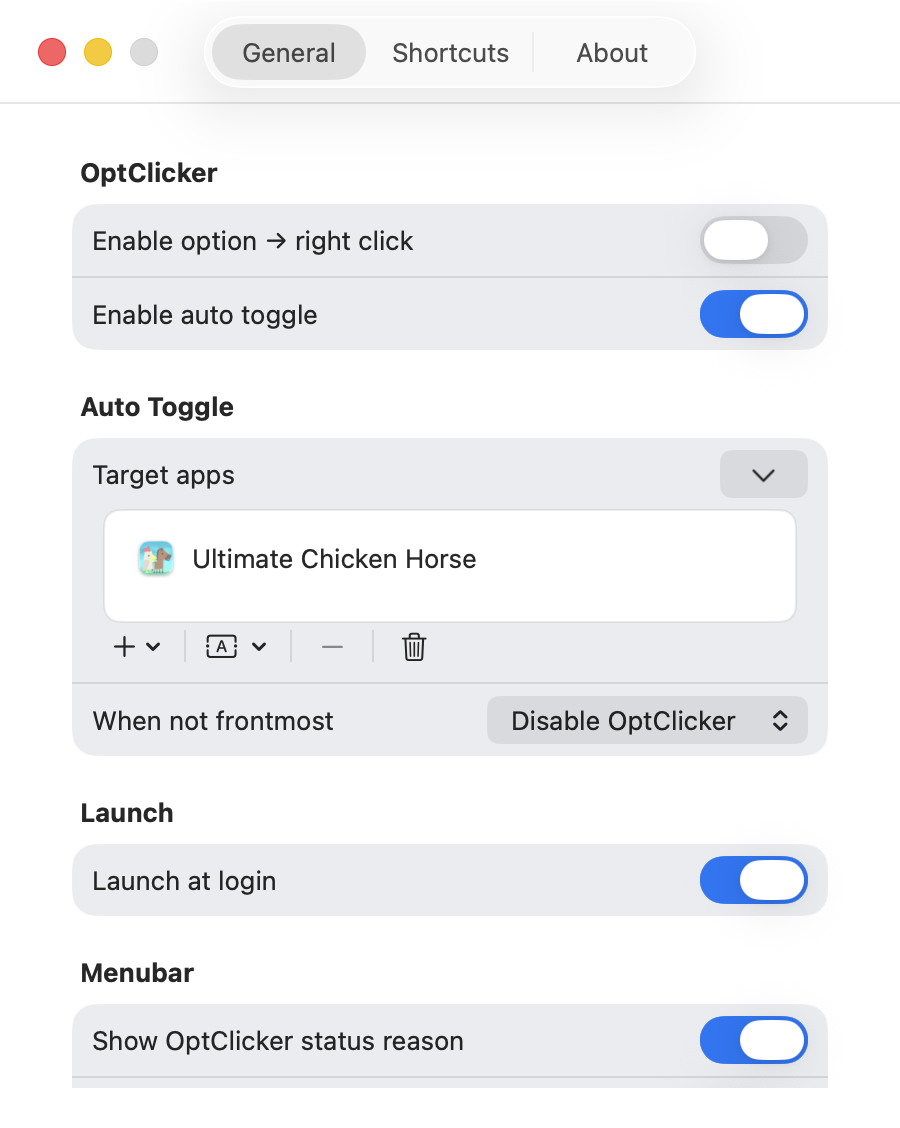
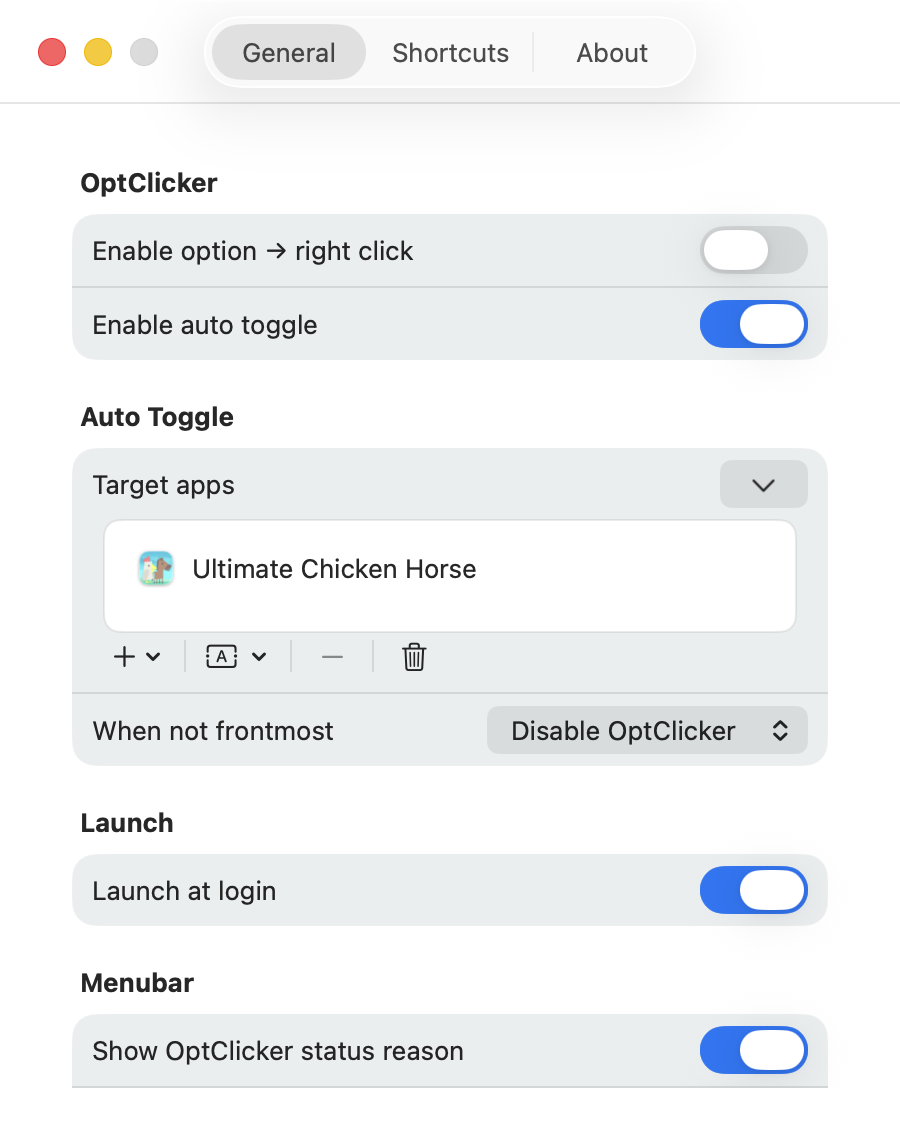
fix: center pics

diff --git a/styles/main.css b/styles/main.css
@@ -257,6 +257,8 @@ html.dark .glass-strong {
 .screenshot-parallax {
     overflow: visible;
     position: relative;
+    display: flex;
+    justify-content: center;
 }
 
 .screenshot-parallax-img {
